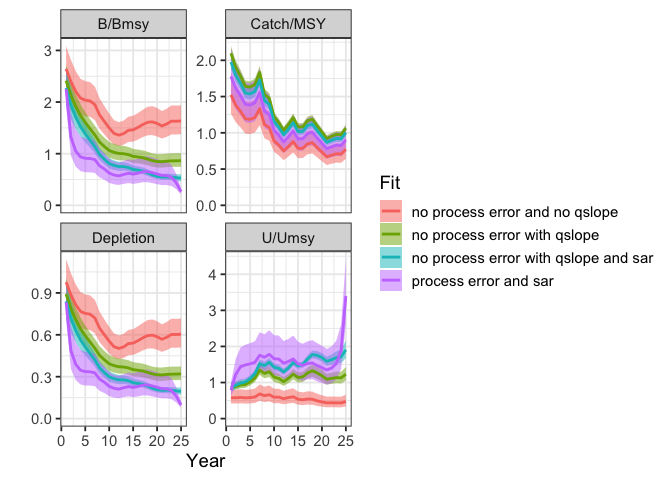
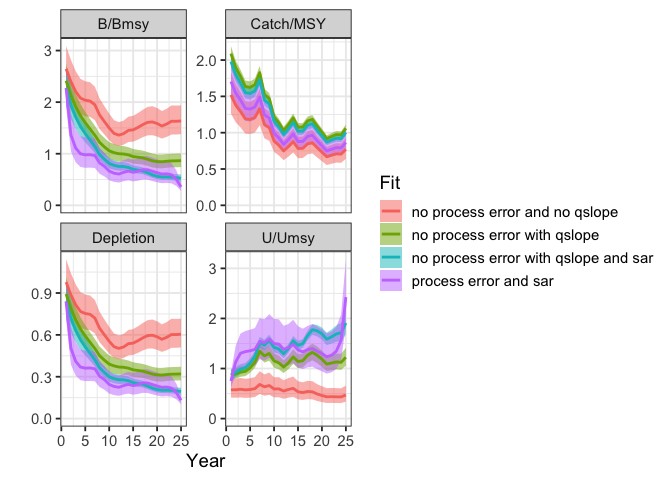
non-centering and friends
* improving documentation
* added option for explicit CV on catch data
* centered or non-centered process error parameterizations

diff --git a/src/TMB/sraplus_tmb.hpp b/src/TMB/sraplus_tmb.hpp
@@ -155,6 +155,8 @@ Type sraplus_tmb(objective_function<Type>* obj){
   
   DATA_SCALAR(catch_cv);
   
+  DATA_INTEGER(non_centered);
+  
   //// parameters ////
   
   PARAMETER(log_init_dep);
@@ -234,9 +236,21 @@ Type sraplus_tmb(objective_function<Type>* obj){
   
   vector<Type> proc_errors(time - 1);
   
-  proc_errors = exp(log_proc_errors);
+  if (non_centered == 1){
+    
+    proc_errors = exp(log_proc_errors * sigma_proc  - pow(sigma_proc,2)/2);
+    
+    
+  } else {
+    
+    proc_errors = exp(log_proc_errors  - pow(sigma_proc,2)/2);
+    
+    
+  }
   
-  // proc_errors = exp(log_proc_errors - pow(sigma_proc,2)/2);
+  // proc_errors = exp(log_proc_errors);
+  
+  // proc_errors = exp(log_proc_errors * sigma_proc  - pow(sigma_proc,2)/2);
   
   // proc_errors = exp(log_proc_errors * sigma_proc - pow(sigma_proc,2)/2);
   
@@ -499,9 +513,17 @@ Type sraplus_tmb(objective_function<Type>* obj){
     
     for (int t = 0; t < (time - 1); t++){
       
-      nll -= dnorm(log_proc_errors(t), -pow(sigma_proc,2)/2, sigma_proc, true);
+      if (non_centered == 1){
+        
+        nll -= dnorm(log_proc_errors(t), Type(0), Type(1), true);
+        
+      } else{
+        
+        nll -= dnorm(log_proc_errors(t), Type(0), sigma_proc, true);
+        
+      }
+      // nll -= dnorm(log_proc_errors(t),Type(0), sigma_proc, true);
       
-      // nll -= dnorm(log_proc_errors(t), Type(0), Type(1), true);
       
       
     }

diff --git a/README.md b/README.md
@@ -205,14 +205,14 @@ Let’s take a quick look at the `results` object.
 
 head(catch_only_fit$results)
 #> # A tibble: 6 × 6
-#>    year variable           mean           sd        lower       upper
-#>   <dbl> <chr>             <dbl>        <dbl>        <dbl>       <dbl>
-#> 1  1963 b_div_bmsy        0.615       0.113        0.499        0.726
-#> 2  1963 b           5219224.    5406781.     1951895.     9795225.   
-#> 3  1963 c_div_msy         0.295       0.111        0.0604       0.447
-#> 4  1963 crashed           0           0            0            0    
-#> 5  1963 depletion         0.396       0.0429       0.332        0.461
-#> 6  1963 index_hat_t  255133.     279435.       26352.      752854.
+#>    year variable           mean           sd        lower        upper
+#>   <dbl> <chr>             <dbl>        <dbl>        <dbl>        <dbl>
+#> 1  1963 b_div_bmsy        0.598       0.0783       0.498         0.714
+#> 2  1963 b           5297474.    4660189.     1875180.     11409267.   
+#> 3  1963 c_div_msy         0.304       0.119        0.0718        0.449
+#> 4  1963 crashed           0           0            0             0    
+#> 5  1963 depletion         0.393       0.0400       0.335         0.460
+#> 6  1963 index_hat_t  265984.     342741.       22159.       787844.
 ```
 
 `results` is organized as a dataframe tracking different variables over
@@ -227,13 +227,13 @@ object is the output of the SIR algorithm.
 
 ``` r
 head(catch_only_fit$fit)
-#>   variable year draw    value draw_id
-#> 1      b_t 1963    1  6841904   37065
-#> 2      b_t 1964    1  8849197   37065
-#> 3      b_t 1965    1  8265235   37065
-#> 4      b_t 1966    1  9950598   37065
-#> 5      b_t 1967    1  9658066   37065
-#> 6      b_t 1968    1 11518129   37065
+#>   variable year draw   value draw_id
+#> 1      b_t 1963    1 4602483   18214
+#> 2      b_t 1964    1 4665580   18214
+#> 3      b_t 1965    1 4669336   18214
+#> 4      b_t 1966    1 4798243   18214
+#> 5      b_t 1967    1 4953921   18214
+#> 6      b_t 1968    1 4855429   18214
 ```
 
 From there, we can generate some standard plots of B/Bmsy (b_div_bmsy),
@@ -335,7 +335,7 @@ sraplus::diagnose_sraplus(fit = fmi_sar_fit, driors = fmi_sar_driors )
 #> [1] "fishlife matched supplied species"
 #> 
 #> $distinct_sir_draws
-#> [1] 2011
+#> [1] 2072
 #> 
 #> $sir_convergence_plot
 ```
@@ -525,11 +525,12 @@ cpue_qslope_fit <- fit_sraplus(driors = cpue_qslope_driors,
                              model = "sraplus_tmb",
                              adapt_delta = 0.9,
                              max_treedepth = 10,
-                             n_keep = 1000,
-                             chains = 1, 
-                             cores = 1,
+                             n_keep = 2000,
+                             chains = 4, 
+                             cores = 4,
                              estimate_qslope = TRUE,
-                             estimate_proc_error = FALSE)
+                             estimate_proc_error = FALSE,
+                             non_centered = FALSE)
 ```
 
 ``` r
@@ -647,36 +648,36 @@ knitr::kable(summarize_sralpus(cpue_sar_proc_fit, output = "table"), digits = 2)
 
 | variable        |   mean |    sd |  lower |  upper | year |
 |:----------------|-------:|------:|-------:|-------:|-----:|
-| sigma_proc      |   0.27 |  0.05 |   0.19 |   0.34 |    1 |
-| sigma_obs       |   0.27 |  0.04 |   0.20 |   0.34 |    1 |
-| log_sigma_ratio |  -0.01 |  0.05 |  -0.09 |   0.07 |    1 |
-| sigma_ratio     |   0.99 |  0.05 |   0.91 |   1.07 |    1 |
-| log_ihat        |   4.18 |  0.05 |   4.10 |   4.27 |   25 |
-| log_b\_div_bmsy |  -1.33 |  0.14 |  -1.55 |  -1.10 |   25 |
-| log_b           |   4.18 |  0.05 |   4.10 |   4.27 |   25 |
-| log_depletion   |  -2.32 |  0.14 |  -2.54 |  -2.10 |   25 |
-| log_u\_div_umsy |   1.22 |  0.16 |   0.96 |   1.49 |   25 |
-| log_c\_div_msy  |  -0.10 |  0.12 |  -0.30 |   0.09 |   25 |
-| u_t             |   1.15 |  0.06 |   1.05 |   1.24 |   25 |
-| proc_errors     |   0.62 |  0.15 |   0.39 |   0.86 |   24 |
+| sigma_proc      |   0.22 |  0.04 |   0.16 |   0.29 |    1 |
+| sigma_obs       |   0.22 |  0.04 |   0.16 |   0.29 |    1 |
+| log_sigma_ratio |   0.00 |  0.01 |  -0.02 |   0.02 |    1 |
+| sigma_ratio     |   1.00 |  0.01 |   0.98 |   1.02 |    1 |
+| log_ihat        |   4.19 |  0.05 |   4.11 |   4.27 |   25 |
+| log_b\_div_bmsy |  -1.03 |  0.15 |  -1.28 |  -0.79 |   25 |
+| log_b           |   4.19 |  0.05 |   4.11 |   4.27 |   25 |
+| log_depletion   |  -2.03 |  0.15 |  -2.27 |  -1.78 |   25 |
+| log_u\_div_umsy |   0.89 |  0.17 |   0.61 |   1.16 |   25 |
+| log_c\_div_msy  |  -0.15 |  0.09 |  -0.29 |  -0.01 |   25 |
+| u_t             |   1.14 |  0.06 |   1.05 |   1.23 |   25 |
+| proc_errors     |   0.67 |  0.13 |   0.45 |   0.88 |   24 |
 | plim            |   0.05 |  0.00 |   0.05 |   0.05 |    1 |
 | b_to_k          |   0.37 |  0.00 |   0.37 |   0.37 |    1 |
 | crashed         |   0.00 |  0.00 |   0.00 |   0.00 |    1 |
-| index_hat_t     |  65.69 |  3.33 |  60.37 |  71.01 |   25 |
-| r               |   0.34 |  0.05 |   0.26 |   0.43 |    1 |
+| index_hat_t     |  66.00 |  3.35 |  60.65 |  71.36 |   25 |
+| r               |   0.48 |  0.08 |   0.35 |   0.60 |    1 |
 | m               |   1.01 |  0.00 |   1.01 |   1.01 |    1 |
-| msy             |  83.53 | 10.29 |  67.09 |  99.98 |    1 |
-| umsy            |   0.34 |  0.05 |   0.25 |   0.42 |    1 |
-| k               | 669.02 | 85.21 | 532.84 | 805.19 |    1 |
+| msy             |  87.16 |  7.60 |  75.01 |  99.30 |    1 |
+| umsy            |   0.47 |  0.08 |   0.35 |   0.59 |    1 |
+| k               | 501.06 | 71.18 | 387.29 | 614.82 |    1 |
 | q_t             |   0.01 |  0.00 |   0.00 |   0.01 |   25 |
 | q_slope         |   0.00 |  0.00 |   0.00 |   0.00 |    1 |
-| sigma_ratio     |   0.99 |  0.05 |   0.92 |   1.07 |    1 |
-| ihat            |  65.69 |  0.05 |  60.58 |  71.24 |   25 |
-| b_div_bmsy      |   0.27 |  0.14 |   0.21 |   0.33 |   25 |
-| b               |  65.69 |  0.05 |  60.58 |  71.24 |   25 |
-| depletion       |   0.10 |  0.14 |   0.08 |   0.12 |   25 |
-| u_div_umsy      |   3.40 |  0.16 |   2.61 |   4.42 |   25 |
-| c_div_msy       |   0.90 |  0.12 |   0.74 |   1.10 |   25 |
+| sigma_ratio     |   1.00 |  0.01 |   0.98 |   1.02 |    1 |
+| ihat            |  66.00 |  0.05 |  60.86 |  71.58 |   25 |
+| b_div_bmsy      |   0.36 |  0.15 |   0.28 |   0.45 |   25 |
+| b               |  66.00 |  0.05 |  60.86 |  71.58 |   25 |
+| depletion       |   0.13 |  0.15 |   0.10 |   0.17 |   25 |
+| u_div_umsy      |   2.43 |  0.17 |   1.85 |   3.18 |   25 |
+| c_div_msy       |   0.86 |  0.09 |   0.75 |   0.99 |   25 |
 
 # Implementing References
 
@@ -684,3 +685,10 @@ Ovando, D., Hilborn, R., Monnahan, C., Rudd, M., Sharma, R., Thorson,
 J.T., Rousseau, Y., Ye, Y., 2021. Improving estimates of the state of
 global fisheries depends on better data. Fish and Fisheries n/a.
 <https://doi.org/10.1111/faf.12593>
+
+# Importannt Note
+
+This package uses the [`TMBtools`](https://github.com/mlysy/TMBtools).
+If you make modifications to the core model in
+`src/TMB/sraplus_tmb.hpp`, you need to run `TMBtools::export_models()`
+prior to building the package.
